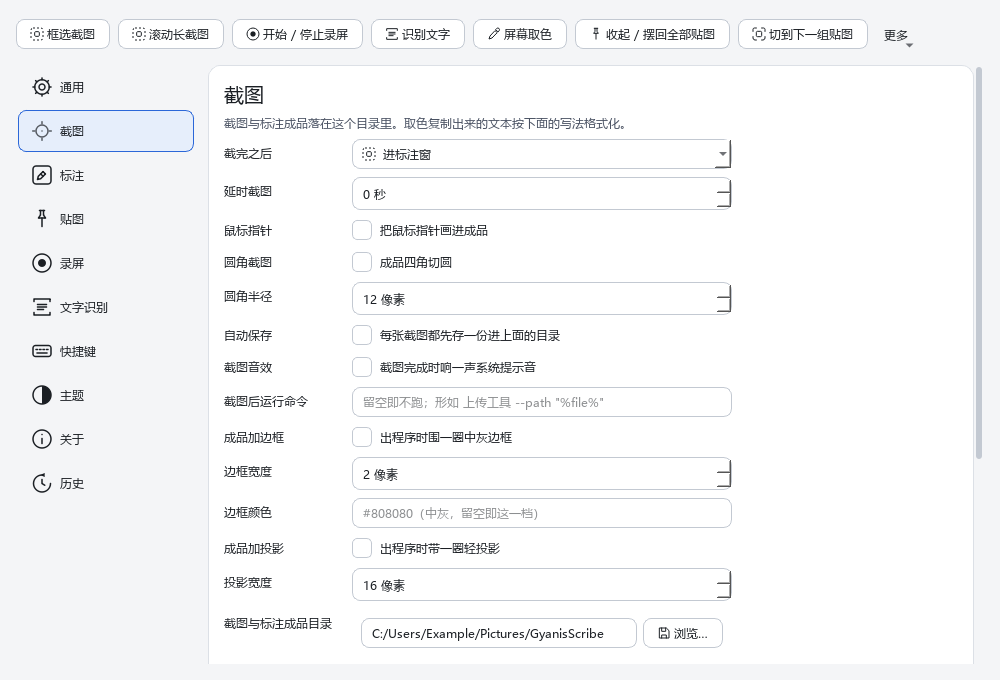
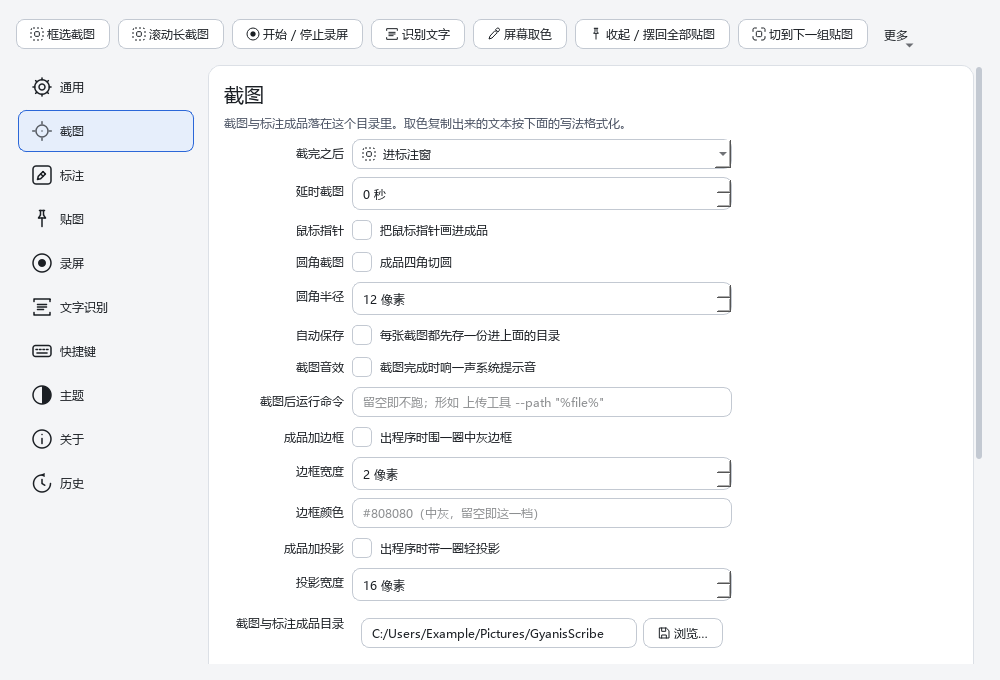
fix(App): 设置页标签右对齐，标签到字段的缝恒定
左对齐时「标签右端 → 字段左缘」的缝随标签长短在 9–81px 之间乱跳（实测 4 字 81px、
10 字只剩 9px，同一页里两种都见得到）；右对齐后恒定为行距 9px，与 Windows 设置
对话框惯例一致。判据落成像素级用例 SettingsFormKeepsAUniformLabelToFieldGap——
逐行量标签文字右缘到字段左缘的缝（跨差 ≤3px），改回左对齐实测变红。文档图 7 张随修重出。

diff --git a/tests/App/TestMainWindow.cpp b/tests/App/TestMainWindow.cpp
@@ -37,12 +37,15 @@ using GyanisScribe::App::screenCaptureLabels;
 #include <QCheckBox>
 #include <QFile>
 #include <QFileInfo>
+#include <QFormLayout>
 #include <QComboBox>
 #include <QIcon>
+#include <QImage>
 #include <QLabel>
 #include <QLineEdit>
 #include <QListWidget>
 #include <QMenu>
+#include <QPixmap>
 #include <QPushButton>
 #include <QSpinBox>
 #include <QScrollArea>
@@ -55,6 +58,7 @@ using GyanisScribe::App::screenCaptureLabels;
 #include <algorithm>
 #include <filesystem>
 #include <format>
+#include <limits>
 #include <memory>
 #include <optional>
 #include <set>
@@ -264,6 +268,69 @@ namespace
                 EXPECT_NE(controlInCurrentPage(controlName), nullptr) << "第 " << index << " 页里没有「" << std::string{controlName} << "」";
             }
         }
+    }
+
+    /**
+     * @brief 设置页的标签与字段对得上：每一行的「标签文字右缘 → 字段左缘」的缝要恒定
+     * @details 这条钉的是标签右对齐那一处：左对齐时这条缝随标签长短忽宽忽窄（实测 4 字 81px、
+     *          10 字只剩 9px，同一页里两种都见得到）。只断 labelAlignment 属性的话，将来 Qt
+     *          换了绘制行为这条不会红，所以量的是画出来的像素——做法与 UiStyleGuide §3 那条
+     *          渲染判据同路。跨列行（分组标题一类）没有字段，不参与这条。
+     */
+    TEST_F(MainWindowFixture, SettingsFormKeepsAUniformLabelToFieldGap)
+    {
+        makeWindow();
+        m_window->open(MainWindowPage::General);
+        auto *page = stack()->currentWidget();
+        ASSERT_NE(page, nullptr);
+        auto *form = page->findChild<QFormLayout *>();
+        ASSERT_NE(form, nullptr) << "通用页没有表单骨架，判据的前提就没构造出来";
+        EXPECT_TRUE(form->labelAlignment().testFlag(Qt::AlignRight)) << "标签右对齐是「缝恒定」的来历，一并钉住";
+
+        const QImage pixmap    = page->grab().toImage();
+        const auto   scale     = pixmap.devicePixelRatio();
+        int          rows      = 0;
+        int          narrowest = std::numeric_limits<int>::max();
+        int          widest    = 0;
+        for (int row = 0; row < form->rowCount(); ++row)
+        {
+            const auto *labelItem = form->itemAt(row, QFormLayout::LabelRole);
+            const auto *fieldItem = form->itemAt(row, QFormLayout::FieldRole);
+            if (labelItem == nullptr || fieldItem == nullptr || labelItem->widget() == nullptr || fieldItem->widget() == nullptr)
+            {
+                continue;
+            }
+            auto *label = labelItem->widget();
+            auto *field = fieldItem->widget();
+
+            const QRect labelRect{label->mapTo(page, QPoint{0, 0}), label->size()};
+            const int   fieldLeft = field->mapTo(page, QPoint{0, 0}).x();
+
+            // 标签文字右缘：在标签控件自己的矩形里从右往左找最右的墨迹像素
+            int textRight = -1;
+            for (int x = labelRect.right(); x >= labelRect.left() && textRight < 0; --x)
+            {
+                for (int y = labelRect.top(); y <= labelRect.bottom(); ++y)
+                {
+                    const auto pixel = pixmap.pixelColor(qRound(x * scale), qRound(y * scale));
+                    if (pixel.red() + pixel.green() + pixel.blue() < 3 * 200)
+                    {
+                        textRight = x;
+                        break;
+                    }
+                }
+            }
+            ASSERT_GE(textRight, 0) << "第 " << row << " 行的标签一个字都没画出来";
+            const int gap = fieldLeft - textRight;
+            narrowest     = std::min(narrowest, gap);
+            widest        = std::max(widest, gap);
+            ++rows;
+        }
+
+        ASSERT_GE(rows, 5) << "通用页参与判据的行太少，前提没构造出来";
+        EXPECT_LE(widest - narrowest, 3) << "缝忽宽忽窄又回来了：最窄 " << narrowest << "px、最宽 " << widest << "px";
+        EXPECT_GE(narrowest, 4) << "缝比行距还窄，标签已经贴上字段";
+        EXPECT_LE(widest, 16) << "缝最宽 " << widest << "px，标签与字段已经不成对";
     }
 
     /**

diff --git a/src/App/MainWindow.cpp b/src/App/MainWindow.cpp
@@ -160,8 +160,10 @@ namespace
 
         auto *form = new QFormLayout;
         form->setSpacing(GyanisScribe::Ui::kSpacingSmall);
-        // 标签左对齐并与字段同一水平线：右对齐会让标签与字段之间那条缝忽宽忽窄，顶对齐让单行字段看着下沉
-        form->setLabelAlignment(Qt::AlignLeft | Qt::AlignVCenter);
+        // 标签右对齐并与字段同一水平线：这一列的右端要与字段左缘只隔一个行距，左对齐时那条缝会随
+        // 标签长短忽宽忽窄（实测 4 字 81px、10 字只剩 9px，同一页里两种都见得到）；
+        // 顶对齐会让单行字段看着下沉，竖直方向取居中
+        form->setLabelAlignment(Qt::AlignRight | Qt::AlignVCenter);
         form->setFormAlignment(Qt::AlignLeft | Qt::AlignTop);
         layout->addLayout(form);
         layout->addStretch();
